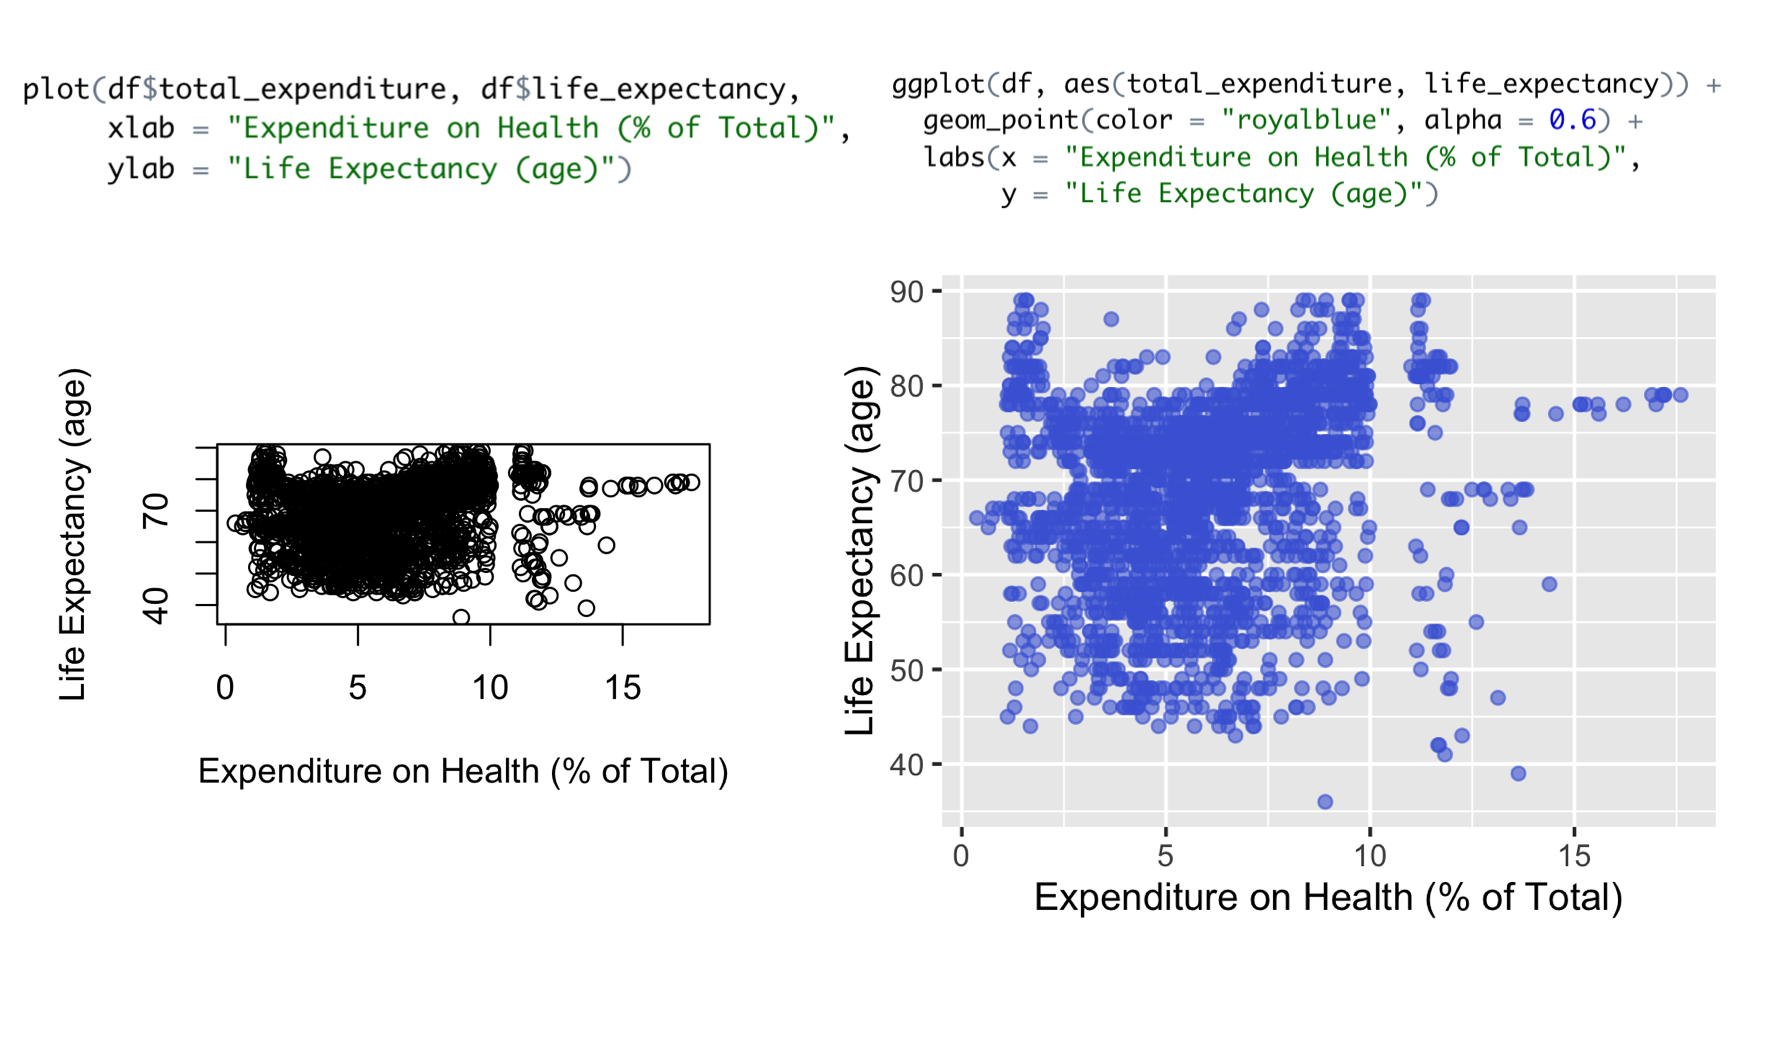
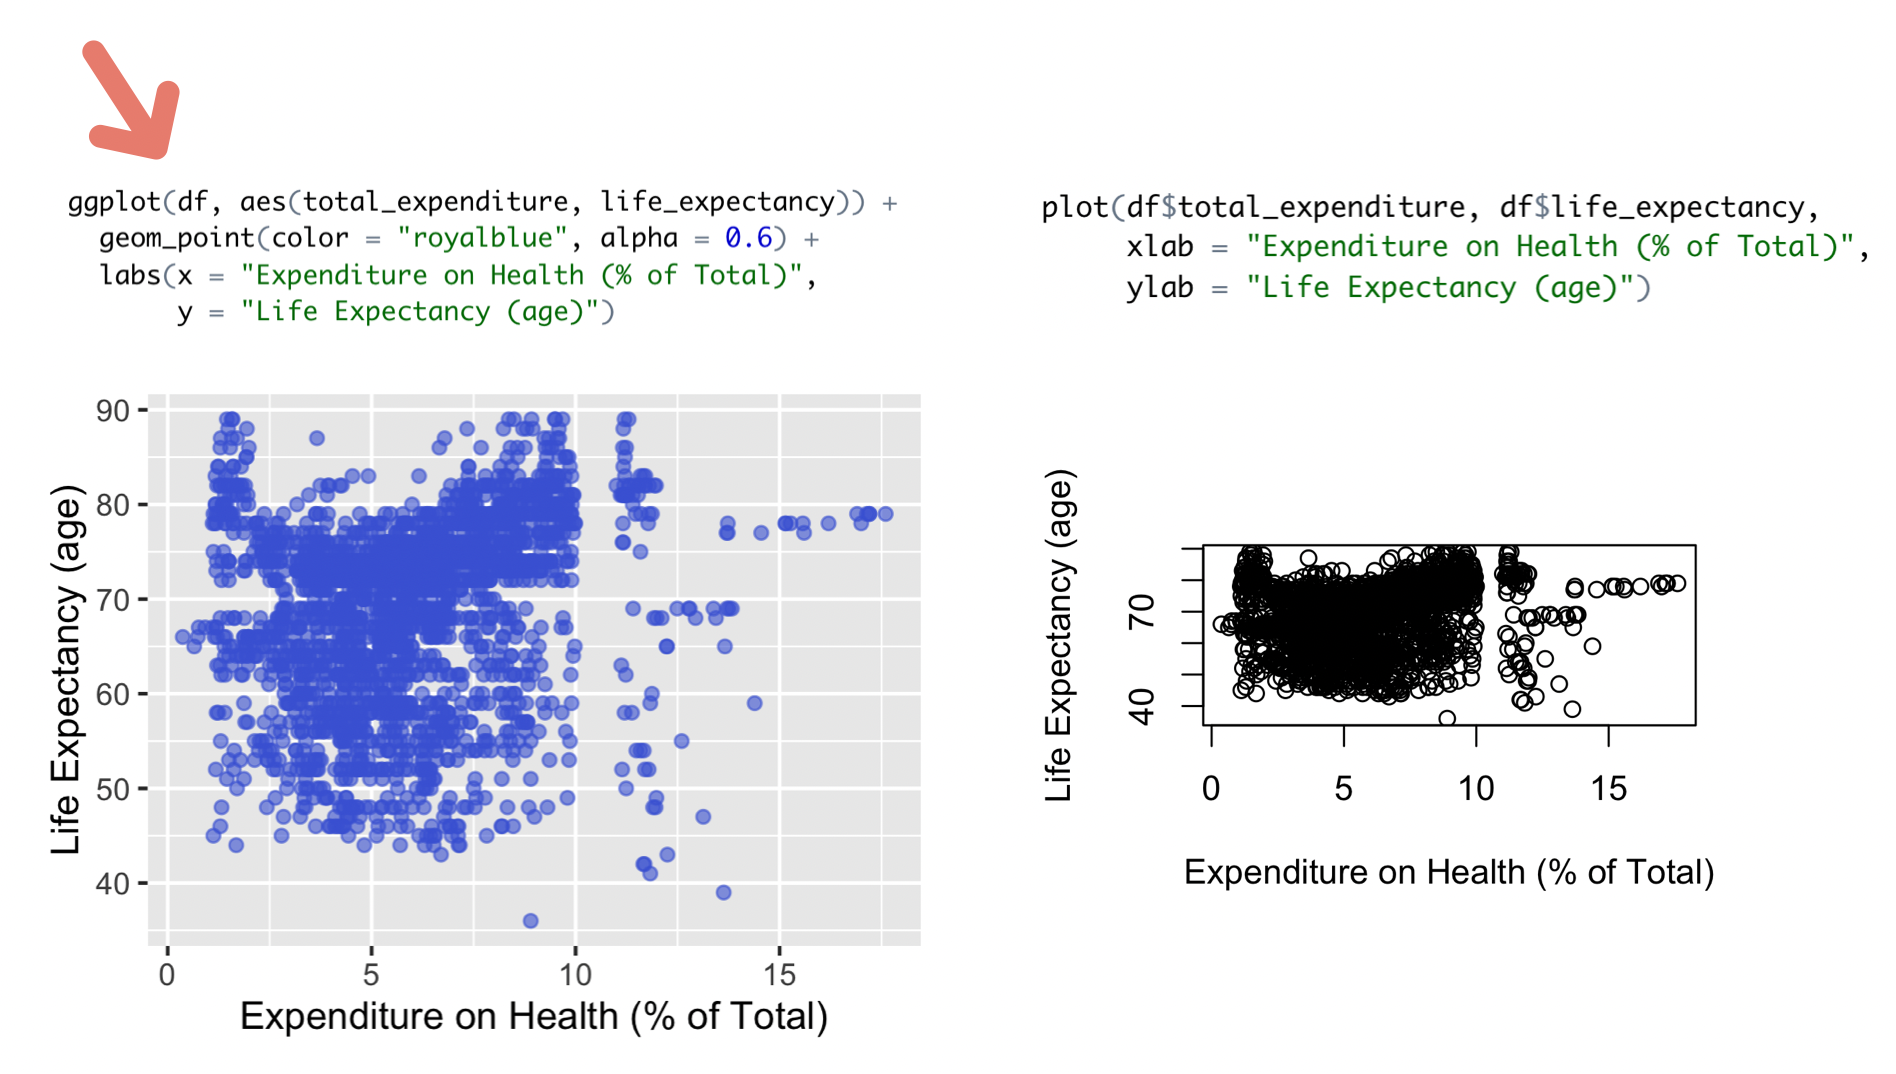
lab8

diff --git a/EDUC64122F/lab8.html b/EDUC64122F/lab8.html
@@ -64,12 +64,12 @@ Here is one example of your workflow: -- load packages -- read in dataset -- ins
 
 ---
 ### Scatterplots (two ways)
-
+Still providing support for {base} users but let's move toward using {ggplot2} because of at least three things we love about it: more intuitive **language**, more **arguments** you can manipulate, and more **layers** to add on to your plots.
 &lt;img src="lab802.png" style="width: 99%" /&gt;
 
 ---
 ### Best fit lines (two ways)
-**Make sure to set y axis to the correct range to avoid missleading images**
+Make sure to set y axis to the correct range to avoid missleading images
 
 &lt;img src="lab803.png" style="width: 99%" /&gt;
 
